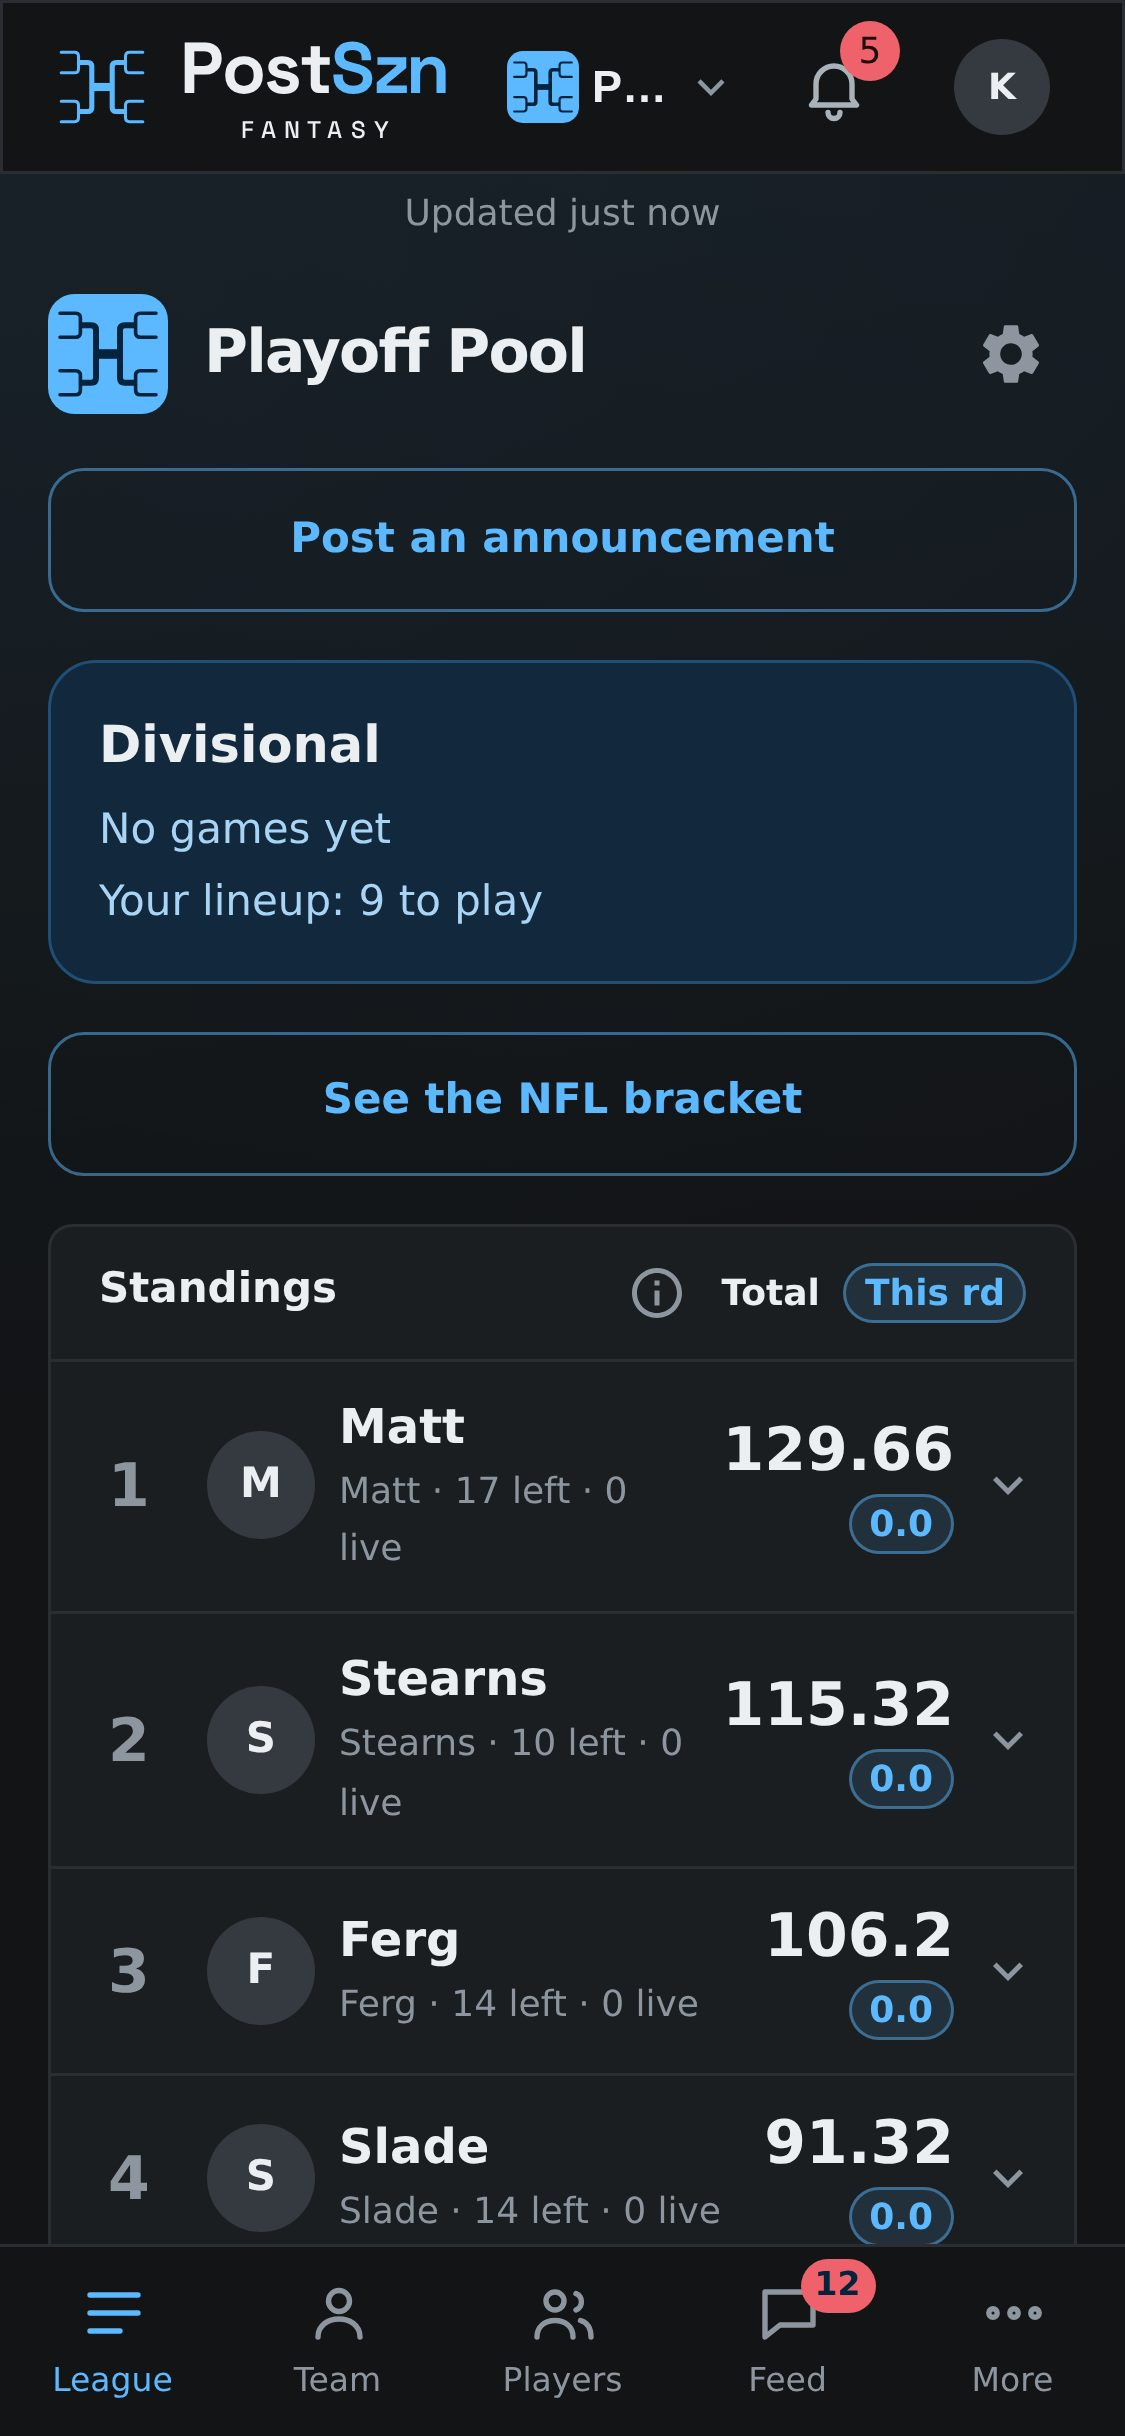
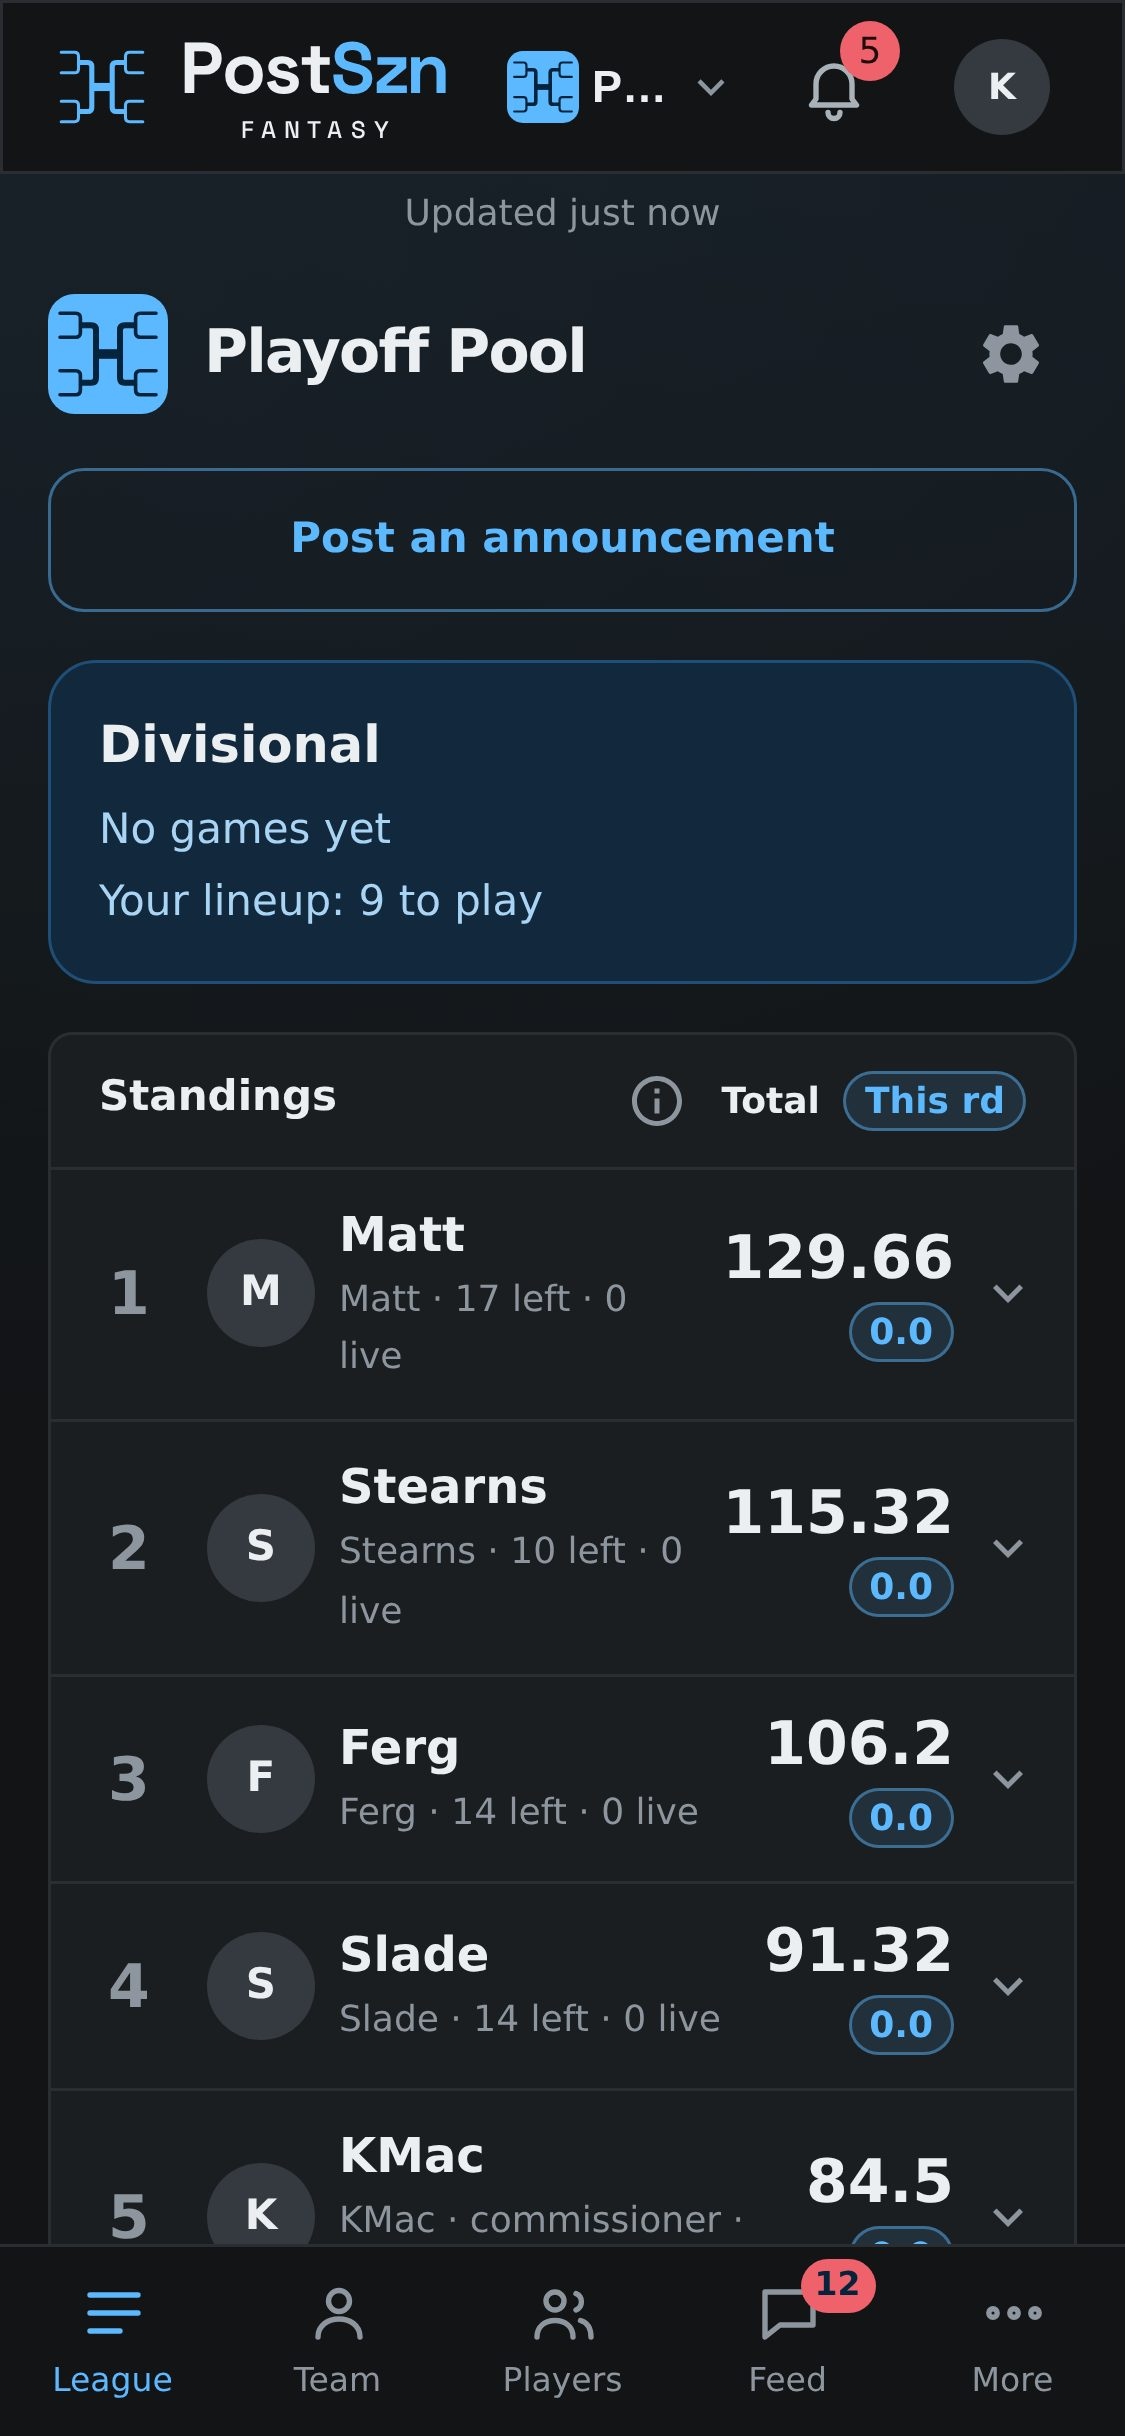
League home: drop the NFL bracket button; More is the way in
Tour screens recaptured.

diff --git a/frontend/src/components/league/PhaseBlock.tsx b/frontend/src/components/league/PhaseBlock.tsx
@@ -1,7 +1,7 @@
 import { Box, Button, Typography } from "@mui/material";
 import type { ReactNode } from "react";
 import { Link } from "react-router-dom";
-import { useDraft, useFeatures, useStandings } from "../../api/queries";
+import { useDraft, useStandings } from "../../api/queries";
 import type { SeasonOverview, Standings } from "../../api/types";
 import { useSeasonContext } from "../../contexts/SeasonContext";
 import { tokens } from "../../theme";
@@ -229,34 +229,14 @@ const AfterDraft = ({ season }: { season: SeasonOverview }) => {
   return standings ? <PlayoffBlock season={season} standings={standings} /> : null;
 };
 
-/** Hidden while the owner's bracket kill switch is off. */
-const BracketLink = () => {
-  const { paths } = useSeasonContext();
-  const { bracket } = useFeatures();
-  if (!bracket) return null;
-  return (
-    <Button component={Link} to={paths.bracket} variant="outlined" fullWidth sx={{ minHeight: 48 }}>
-      See the NFL bracket
-    </Button>
-  );
-};
-
 const phaseBlock = (season: SeasonOverview) => {
   if (season.draftStatus === "unscheduled") return <Unscheduled season={season} />;
   if (season.draftStatus !== "completed") return <DraftBlock season={season} />;
   return <AfterDraft season={season} />;
 };
 
-/**
- * The block that tops the League tab, with the way into the NFL bracket underneath; a
- * finished season shows the champion card instead.
- */
+/** The block that tops the League tab; a finished season shows the champion card instead. */
 const PhaseBlock = ({ season }: { season: SeasonOverview }) =>
-  season.finished ? null : (
-    <>
-      {phaseBlock(season)}
-      <BracketLink />
-    </>
-  );
+  season.finished ? null : phaseBlock(season);
 
 export default PhaseBlock;

diff --git a/frontend/src/components/league/PhaseBlock.test.tsx b/frontend/src/components/league/PhaseBlock.test.tsx
@@ -14,7 +14,6 @@ const mocks = vi.hoisted(() => ({
 vi.mock("../../api/queries", () => ({
   useDraft: () => mocks.draft,
   useStandings: () => mocks.standings,
-  useFeatures: () => ({ bracket: true }),
   useInvite: () => ({ data: { code: "ABC123" }, isLoading: false }),
   useRegenerateInvite: () => ({ mutate: vi.fn(), isPending: false }),
 }));
@@ -142,12 +141,9 @@ describe("PhaseBlock", () => {
     expect(screen.getByText("Your lineup: 3 live, 1 to play")).toBeInTheDocument();
   });
 
-  it("links to the NFL bracket from every phase, even before the draft", () => {
+  it("leaves the NFL bracket to More", () => {
     show({ draftStatus: "unscheduled", canCommission: false });
-    expect(screen.getByRole("link", { name: "See the NFL bracket" })).toHaveAttribute(
-      "href",
-      "/leagues/3/bracket",
-    );
+    expect(screen.queryByRole("link", { name: /NFL bracket/ })).toBeNull();
   });
 
   it("leaves the top to the champion card when the season is over", () => {

diff --git a/AGENTS.md b/AGENTS.md
@@ -334,7 +334,7 @@ SPA routes: the league's current season (`current: true` on its entry of `GET /a
 | Account | `DELETE /api/auth/me` (body `{confirm: "DELETE"}` required, else 422; 204; deletes the caller's account, see services/account_deletion.py; 409 `detail` names the leagues that need another commissioner first; 502 when Supabase fails, nothing changes; 503 without `SUPABASE_SERVICE_ROLE_KEY`). In the app: profile sheet, Danger zone, Delete my account, where the member must type DELETE. Owner fallback: docs/owner/account-deletion.md |
 | Leagues | `POST /api/leagues/create-league` (creates the league and its first season for the configured year; 201 `{leagueId, seasonId}`; 409 once that season's Super Bowl is final), `GET /api/leagues/user-leagues` (each league with its latest season: `id`, `seasonId`, `season` (year), `finished`, `draftStatus`, `userTeamId`, `hasNewActivity`, and `seasons[]` of every season), `GET /api/leagues/past-leagues` (leagues the caller left, each with the finished seasons they owned a team in), `GET /api/leagues/{id}/seasons` (the seasons the caller may open: all for a member, only those finished seasons after leaving; 403 for a stranger; each has `id`, `year`, `finished`, `draftStatus`, `myTeamId`), `GET/PATCH /api/leagues/{id}` (overview: `notes`, members, `seasons[]`, `currentSeasonId`, `canStartSeason`, `nextYear`; PATCH: `name` and `notes`, free text up to 5000 characters shown to every member, commissioner-only edit), `PUT/DELETE /api/leagues/{id}/announcement` (#403, commissioner only, 403 for members, former members and strangers; PUT `{body (1 to 1000, cleaned like notes), push?: bool}` pins it, replacing the last, posts an `announcement` event to the current season's feed (it lights the dot and its payload carries the text) and, with `push`, runs `notifications.notify_announcement` in the background; DELETE unpins and keeps the feed event; both answer the league overview, whose `announcement` is `{body, postedAt, authorName}` or null; 10 PUTs an hour per user, else 429; columns `leagues.announcement`, `announcement_at`, `announcement_by`), `DELETE /api/leagues/{id}` (any commissioner; body `{leagueName}` must equal the league name, else 422; 409 while a draft in any season is in progress or paused; 204. Soft delete: sets `deleted_at`/`deleted_by`, revokes the invite, keeps every row. Every route behind the member guards then answers 404 `{detail, code: "leagueDeleted", leagueName, deletedAt}` to current and former members and the same 403 a live league gives strangers to others (no league-id probing). All league queries go through `services/live_leagues.py`; `tests/test_live_league_filter.py` fails on a direct read. The owner restores with `python -m api.scripts.restore_league <id>`, see docs/owner/league-restore.md), `PATCH/DELETE /api/leagues/{id}/members/{userId}` (DELETE sets `left_at`, it never deletes the row. Any active member may DELETE their own id to leave: 204, same last-commissioner rule, they may rejoin through a valid invite. Removing someone else is commissioner-only (403 otherwise), answers the league overview and revokes the league's invite in the same transaction so the removed person cannot rejoin with the old link; the SPA's members sheet then says so with a one-tap Regenerate. Settings has a Leave league row for every member), `POST /api/leagues/{id}/seasons` (commissioner starts next year's season once the latest is finished and December 1 of its Super Bowl's calendar year has come; 201 `{leagueId, seasonId}`; 409 if the season is not over, that date has not come or the next one already exists; `canStartSeason` in the overview folds in the same date; today's date is the injectable `dependencies/clock.py` `Today`). A league is never read-only. |
 | Seasons | `GET /api/seasons/{id}` (overview: teams, members, draft status, `finished`, `canEdit`, `canCommission`), `PATCH /api/seasons/{id}` (`numberTeams`, locks at draft start), `GET/PATCH /api/seasons/{id}/settings` (roster/scoring/postseason; roster shape locks once the draft starts; every field is bounded: slot counts 0 to 20, `roster_total` 1 to 40 and equal to starters + bench (a PATCH that changes slots without it gets it recomputed), at least one starter, `roster_max_x` >= `roster_num_x`, scoring within ±100, no NaN/Infinity, else 422; the same rules as `RosterSettingsInput` on create-league and as CHECK constraints on `season_settings`), `GET /api/seasons/{id}/teams`, `GET /api/seasons/{id}/standings` (`{round, gamesInProgress, gamesFinal, playersLeft, teams[]}`; each team has `rank`, round points, `tieReason`, `progress`; ranked by the tiebreaker chain, ties for the title share a rank), `PUT /api/seasons/{id}/teams/{teamId}/owner` (commissioner assigns/unassigns a team; joining assigns one automatically, this is for reassigning). A former member may read these for a finished season they owned a team in; every write to a finished season answers 409 "read-only archive". |
-| Bracket | `GET /api/seasons/{id}/bracket` (#393; any member, former members of a finished season included, and before the draft: `{year, currentRound, rounds[4]{round, games[]}, byes[]}`; a game has `id`, `kickoff`, `state` (`scheduled` / `live` / `final`), `clock`, `home` / `away` (`BracketTeam`: `abbreviation`, `city`, `name`, `logoUrl`, `topPlayers[]` with `points`), `homePoints` / `awayPoints` (null until it is live), `winnerTeamId` and `myPlayers[]` (the caller's roster players on either team with `role` `starter` or `bench` in that round; empty without a team or a draft). Answers 404 while the `bracket` flag is off. SPA: `/bracket` (`pages/BracketPage.tsx`, `components/bracket/`), a link under the League phase block and a row in More; vertical rounds on a phone, four columns from `md`; the page refetches every 30 s while a game is live) |
+| Bracket | `GET /api/seasons/{id}/bracket` (#393; any member, former members of a finished season included, and before the draft: `{year, currentRound, rounds[4]{round, games[]}, byes[]}`; a game has `id`, `kickoff`, `state` (`scheduled` / `live` / `final`), `clock`, `home` / `away` (`BracketTeam`: `abbreviation`, `city`, `name`, `logoUrl`, `topPlayers[]` with `points`), `homePoints` / `awayPoints` (null until it is live), `winnerTeamId` and `myPlayers[]` (the caller's roster players on either team with `role` `starter` or `bench` in that round; empty without a team or a draft). Answers 404 while the `bracket` flag is off. SPA: `/bracket` (`pages/BracketPage.tsx`, `components/bracket/`), a row in More (the only entry point); vertical rounds on a phone, four columns from `md`; the page refetches every 30 s while a game is live) |
 | Recap | `GET /api/seasons/{id}/recap` (`{seasonId, leagueId, year, finished, champions[], standings, nextSeasonId, awards[]}`; no champion or awards until the Super Bowl is final; awards computed on read; the per-position draft awards `best_value_<pos>` / `bust_<pos>` carry `draftedAs`, `finishedAs`, `points`, with `value` = places gained and `pickNumber` = the overall pick he was taken at) |
 | Invites | `GET/POST/DELETE /api/leagues/{id}/invite` (commissioner; a new invite lasts until the first Wild Card kickoff, at least 7 and at most 60 days, unless the body sets `expiresAt`), `GET /api/invites/{code}` (public preview, no login: `{code, leagueName, season, openSpots, full, members[{displayName, isCommissioner}], joinable, reason}`; member names only, never emails), `POST /api/invites/{code}/join` (idempotent and serialized: joins lock the invite row and a per-user advisory lock, and `uses` is bumped by an atomic conditional update so `max_uses` holds under simultaneous joins; claims the lowest-numbered open team of the current season in the same transaction as the membership, and a former member rejoins onto a free team without ever holding two; a league with no open team answers 409 `{detail: "This league is full", code: "league_full"}` until a commissioner raises `numberTeams`) |
 | Teams | `GET /api/teams/{id}/breakdown` (each round's counted points per starter slot and the bench's points, computed on read; round scores equal the standings; each starter slot's `mark` and each player's `scoreChange`, restated in counted points after the round multiplier), `GET/PATCH /api/teams/{id}` (PATCH renames: the name is cleaned, 422 when blank, 409 when another team of the season has it, case-insensitive; the GET carries all four rounds' lineups: slots, unassigned and eliminated players, lock times, empty-starter count), `POST /api/teams/{id}/lineup` (`{round, playerId, slotIndex, confirmOverride?}`; `slotIndex: null` takes a player out; moves lock the team row so concurrent moves run one after another, and standings are recomputed only when the moved round has a live or final game or stats; undoing a pick also clears that player's lineup slots; 409 when any player involved is locked or eliminated; the owner or a commissioner. A commissioner moving a locked player gets 409 `{detail, code: "override_confirmation_required"}` until the request repeats with `confirmOverride: true`; there is no add/drop in v1) |
